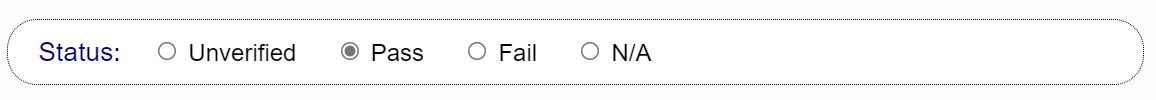
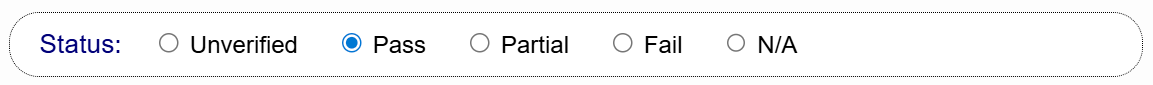
update used guide for partial passes

diff --git a/user-guide/conformance.html b/user-guide/conformance.html
@@ -41,7 +41,7 @@
 				
 				<figure>
 					<figcaption>Figure 1 &#8212; The status section appears after the links to the supporting
-						documentation and includes pass, fail and not applicable options.</figcaption>
+						documentation and includes unverified, pass, partial, fail and not applicable options.</figcaption>
 					<img src="images/status.png" width="700" alt="Status fields" />
 				</figure>
 				
@@ -70,21 +70,29 @@
 							content it does not. Use the <a href="#na">not applicable</a> status in these cases.</p>
 					</dd>
 
-					<dt id="fail">Fail</dt>
+					<dt id="fail">Partial / Fail</dt>
 					<dd>
-						<p>If the publication fails a success criterion, setting the status to <i>fail</i> will reveal a
-							field to describe why it failed.</p>
+						<p>The option to choose the partial or fail options when a success criterion has not been met
+							is up to the evaluator. Either one will result in a publication not passing conformance
+							since partial or total failure makes no difference to WCAG conformance.</p>
+						
+						<p>The reason for both options is to allow evaluators to give a more positive failure response
+							if the publisher has made some effort to meet a success criterion but has not been able
+							to fully meet it.</p>
+						
+						<p>Setting either status will reveal a field to describe why it failed or why it is not 
+							complete.</p>
 						
 						<figure>
 							<figcaption>Figure 2 &#8212; A text field for recording a note appears below the status
-								line when the fail setting is selected.</figcaption>
-							<img src="images/status_fail.png" width="600" alt="Fail setting" />
+								line when the partial or fail settings are selected.</figcaption>
+							<img src="images/status_fail.png" width="600" alt="Explanatory note field" />
 						</figure>
 						
-						<p>Failure notes are included in the final report for the publication by default but can be
+						<p>The explanatory note is included in the final report for the publication by default but can be
 							excluded to create reports for different audiences (e.g., to provide more detail to a
-							publisher about specific errors in the markup without revealing those details to a general
-							audience).</p>
+							publisher about specific errors or shortcomings in the markup without revealing those 
+							details to a general audience).</p>
 					</dd>
 
 					<dt id="na">N/A</dt>
